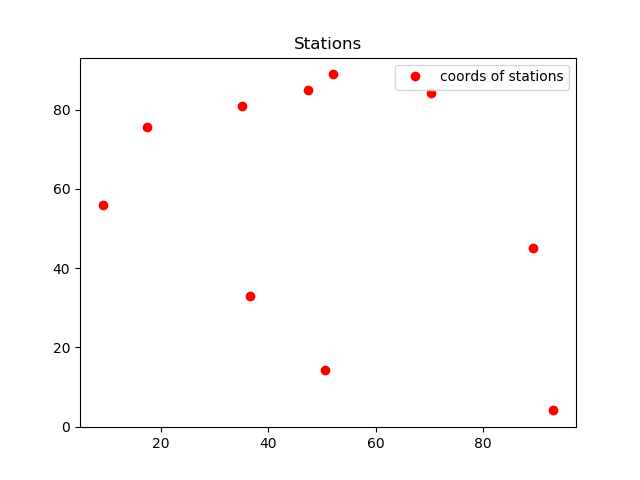
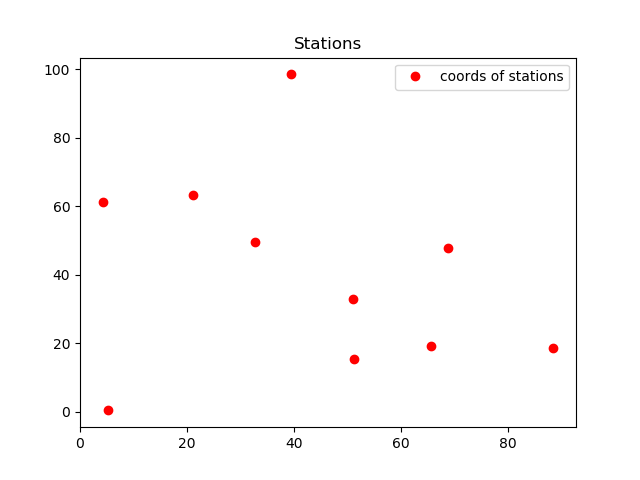
Data Generator 수정

diff --git a/DataGenerator.py b/DataGenerator.py
@@ -1,6 +1,7 @@
 import Chromosome
 import Pool
 import random
+import math
 
 class DataGenerator:
     # n : the number of requests
@@ -9,22 +10,6 @@ class DataGenerator:
     # stations : locations of stations [tuple of 2 real numbers(x, y)]
     # T : the maximum time of the simulation
     def __init__(self, n = 1000, m = 20, T = 1440):
-        self.n = n
-        self.requests = []
-        for i in range(self.n) :
-            sta0 = sta1 = random.randrange(m)+1
-            while sta0 == sta1 :
-                sta1 = random.randrange(m)+1
-            t0 = t1 = random.randrange(T)
-            while t0 == t1 :
-                t1 = random.randrange(T)
-            if(t1 < t0) :
-                temp = t0
-                t0 = t1
-                t1 = temp
-            self.requests.append((t0, sta0, t1, sta1))
-        # To ensure two stations, times are different
-
         self.m = m
         self.stations = []
         for j in range(self.m) :
@@ -33,6 +18,29 @@ class DataGenerator:
                 sta = (random.random() * 100, random.random() * 100)
             self.stations.append(sta)
         # To ensure all stations are different
+        
+        self.n = n
+        self.requests = []
+        for i in range(self.n) :
+            # sta0 = sta1 = random.randrange(m)+1
+            # while sta0 == sta1 :
+            #     sta1 = random.randrange(m)+1
+            # t0 = t1 = random.randrange(T)
+            # while t0 == t1 :
+            #     t1 = random.randrange(T)
+            # if(t1 < t0) :
+            #     temp = t0
+            #     t0 = t1
+            #     t1 = temp
+
+            # new version without using loop
+            sta0 = random.randrange(m)+1
+            sta1 = (sta0 + random.randrange(m-1)) % m + 1
+            t0 = random.randrange(T)
+            t1 = (t0 + random.randrange(T-1) + 1) % T
+            if t1 < t0: t0, t1 = t1, t0
+            self.requests.append((t0, sta0, t1, sta1))
+        # To ensure two stations, times are different
         pass
 
     def __str__(self):
@@ -45,3 +53,6 @@ class DataGenerator:
         ret += "------------------------------------\n"
 
         return ret
+
+    def getDistance(self, x, y): # get euclidean distance between station x and station y
+        return math.sqrt((self.stations[x][0]-self.stations[y][0])**2+(self.stations[x][1]-self.stations[y][1])**2)
